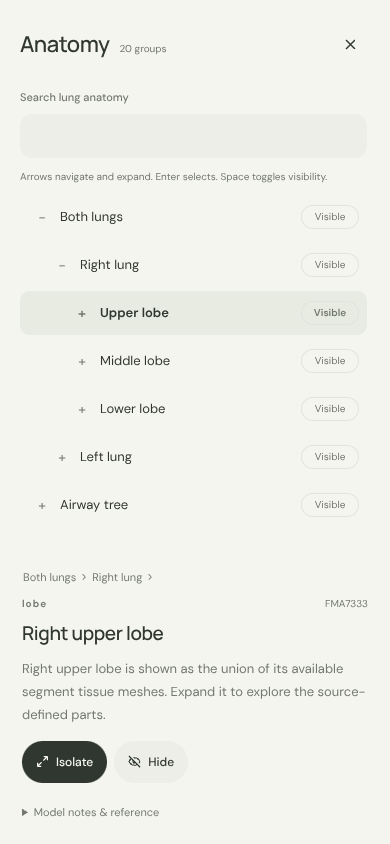
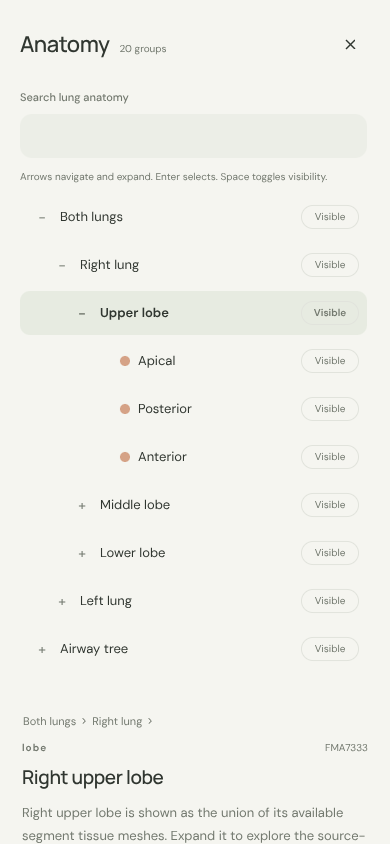
Adopt anatomy-tree colors and built-in reveal from OrganUI #12
Reinstall the registry anatomy-tree with shadcn@4.21.0 from OrganUI
PR #12 (d6b36d0, served locally because organui.com is blocked in the
sandbox) and use its new node options. The installed file is unmodified;
@base-ui/react stays pinned at exactly 1.8.0 and bun.lock is unchanged.

- Leaf rows carry the color their scene mesh uses, so the list shows
  swatches again. All parent rows are real structures and stay
  selectable; lungs has no group-* rows.
- Remove the remount-to-reveal workaround and expansionFor: the
  component now opens a 3D pick's or tour stop's branch and scrolls the
  row into view. The reset key remount stays to clear search.
- Update adapter tests, integration notes (new checksums, options used,
  resolved friction), verification log and panel screenshots.

Claude-Session: https://claude.ai/code/session_01WZXw8BNji5gYqeZAzSuRCJ

diff --git a/src/components/ui/anatomy-tree.tsx b/src/components/ui/anatomy-tree.tsx
@@ -5,6 +5,13 @@ export type AnatomyNode = {
   id: string
   label: string
   children?: readonly AnatomyNode[]
+  /** A CSS color shown as a decorative swatch before the label. */
+  color?: string
+  /**
+   * Defaults to true. A row that is not selectable expands or collapses
+   * instead, for groupings that have no single structure to select.
+   */
+  selectable?: boolean
 }
 export type AnatomyTreeProps = {
   data: readonly AnatomyNode[]
@@ -158,11 +165,35 @@ export function AnatomyTree({
   const helpId = React.useId()
   const searchId = React.useId()
   const searching = deferredQuery.trim() !== ""
+  const groupsExpand = React.useMemo(
+    () => [...index.nodes.values()].some((node) => node.selectable === false),
+    [index]
+  )
   const rows = React.useMemo(
     () => anatomyRows(data, index, expanded, deferredQuery),
     [data, index, expanded, deferredQuery]
   )
   const focusId = focusTarget(rows, activePath, index.parents)
+  // Reveal a selection made outside the tree, such as in a 3D view: when its
+  // row is not shown, expand its ancestors, then scroll the row into view.
+  const [reveal, setReveal] = React.useState({ id: selectedId, scroll: false })
+  if (reveal.id !== selectedId) {
+    const known = !!selectedId && index.nodes.has(selectedId)
+    const shown = rows.some(({ node }) => node.id === selectedId)
+    setReveal({ id: selectedId, scroll: known })
+    const ancestors: string[] = []
+    let parent = known && !shown ? index.parents.get(selectedId!) : undefined
+    while (parent) {
+      ancestors.push(parent)
+      parent = index.parents.get(parent)
+    }
+    if (ancestors.some((id) => !expanded.has(id)))
+      setExpanded(new Set([...expanded, ...ancestors]))
+  }
+  React.useEffect(() => {
+    if (reveal.scroll && reveal.id)
+      refs.current.get(reveal.id)?.scrollIntoView?.({ block: "nearest" })
+  }, [reveal])
   React.useLayoutEffect(() => {
     // Recover only when an update removed the focused element. Focus that
     // left the tree on purpose, even to the body, is never taken back.
@@ -187,6 +218,10 @@ export function AnatomyTree({
       return next
     })
   }
+  function activate(node: AnatomyNode) {
+    if (node.selectable !== false) onSelectionChange(node.id)
+    else if (node.children?.length && !searching) toggleExpanded(node.id)
+  }
   function toggleVisibility(node: AnatomyNode) {
     onVisibilityChange(nextVisibility(node, index, visibility))
   }
@@ -206,7 +241,9 @@ export function AnatomyTree({
         className="mb-3 w-full rounded-md border bg-background px-3 py-2 text-sm focus-visible:outline-2 focus-visible:outline-ring"
       />
       <p id={helpId} className="mb-3 text-xs text-muted-foreground">
-        Arrows navigate and expand. Enter selects. Space toggles visibility.
+        {groupsExpand
+          ? "Arrows navigate and expand. Enter selects, or expands a group. Space toggles visibility."
+          : "Arrows navigate and expand. Enter selects. Space toggles visibility."}
       </p>
       <div
         role="tree"
@@ -249,7 +286,9 @@ export function AnatomyTree({
               aria-setsize={size}
               aria-posinset={position}
               aria-expanded={branch ? open : undefined}
-              aria-selected={selectedId === node.id}
+              aria-selected={
+                node.selectable === false ? undefined : selectedId === node.id
+              }
               aria-checked={checked}
               tabIndex={focusId === node.id ? 0 : -1}
               onFocus={() => {
@@ -290,7 +329,7 @@ export function AnatomyTree({
                   if (branch && open && !searching) toggleExpanded(node.id)
                   else focus(index.parents.get(node.id))
                 }
-                if (event.key === "Enter") onSelectionChange(node.id)
+                if (event.key === "Enter") activate(node)
                 if (event.key === " ") toggleVisibility(node)
               }}
               className="my-1 flex min-h-10 items-center gap-1 rounded-md px-2 text-sm outline-offset-2 hover:bg-muted focus-visible:outline-2 focus-visible:outline-ring aria-selected:bg-accent aria-selected:font-semibold"
@@ -316,11 +355,18 @@ export function AnatomyTree({
                 tabIndex={-1}
                 onClick={() => {
                   focus(node.id)
-                  onSelectionChange(node.id)
+                  activate(node)
                 }}
-                className="min-w-0 flex-1 py-2 text-start break-words"
+                className="flex min-w-0 flex-1 items-center gap-2 py-2 text-start break-words"
               >
-                {node.label}
+                {node.color && (
+                  <span
+                    aria-hidden="true"
+                    className="size-2.5 shrink-0 rounded-full"
+                    style={{ backgroundColor: node.color }}
+                  />
+                )}
+                <span className="min-w-0">{node.label}</span>
               </Button>
               <Button
                 tabIndex={-1}

diff --git a/src/App.tsx b/src/App.tsx
@@ -31,7 +31,6 @@ import { ancestors, byId, leafIds, leaves } from "./anatomy";
 import {
   anatomyTree,
   defaultExpandedIds,
-  expansionFor,
   hiddenFromVisibility,
   visibilityFromHidden,
 } from "./anatomy-adapter";
@@ -68,10 +67,10 @@ const tour = [
 ];
 export default function App() {
   const [state, dispatch] = useReducer(reducer, initialState);
-  // The registry tree owns search and disclosure. A new key remounts it:
-  // reset clears both, and a selection without a visible row reopens its
-  // ancestors so list and scene stay synchronized.
-  const [tree, setTree] = useState({ key: 0, expanded: defaultExpandedIds });
+  // The registry tree owns search and disclosure, and reveals a selection
+  // made elsewhere (3D pick, tour) by itself. Reset bumps its key to clear
+  // both back to the default disclosure.
+  const [treeKey, setTreeKey] = useState(0);
   const [sidebarOpen, setSidebarOpen] = useState(false);
   const [tourStep, setTourStep] = useState<number | null>(null);
   const [about, setAbout] = useState(false);
@@ -85,22 +84,12 @@ export default function App() {
   const stage = useRef<HTMLDivElement>(null);
   const panelToggle = useRef<HTMLButtonElement>(null);
   const aboutTrigger = useRef<HTMLElement | null>(null);
-  const treeWrap = useRef<HTMLDivElement>(null);
   useLayoutEffect(() => {
     if (!sidebarOpen) return;
     panel.current?.focus({ preventScroll: true });
     if (window.matchMedia("(max-width: 760px)").matches)
       panel.current?.scrollIntoView({ block: "start" });
   }, [sidebarOpen]);
-  useLayoutEffect(() => {
-    const rows = treeWrap.current;
-    if (!rows || rows.querySelector('[role="treeitem"][aria-selected="true"]'))
-      return;
-    setTree((t) => ({
-      key: t.key + 1,
-      expanded: [...new Set([...t.expanded, ...expansionFor(state.selected)])],
-    }));
-  }, [state.selected, tree.key]);
   const selected = byId[state.selected];
   const visibleCount = leaves.filter(
     (n) => !state.hidden.includes(n.id),
@@ -138,7 +127,7 @@ export default function App() {
     dispatch({ type: "reset" });
     setTourStep(null);
     setFreeOrbit(false);
-    setTree((t) => ({ key: t.key + 1, expanded: defaultExpandedIds }));
+    setTreeKey((key) => key + 1);
   }
   function step(index: number) {
     setTourStep(index);
@@ -402,9 +391,9 @@ export default function App() {
                 <X size={17} />
               </button>
             </div>
-            <div className="tree-scroll" ref={treeWrap}>
+            <div className="tree-scroll">
               <AnatomyTree
-                key={tree.key}
+                key={treeKey}
                 data={anatomyTree}
                 selectedId={state.selected}
                 onSelectionChange={select}
@@ -415,7 +404,7 @@ export default function App() {
                     hidden: hiddenFromVisibility(next),
                   })
                 }
-                defaultExpandedIds={tree.expanded}
+                defaultExpandedIds={defaultExpandedIds}
                 label="Lung anatomy"
                 className="registry-tree"
               />

diff --git a/src/anatomy-adapter.ts b/src/anatomy-adapter.ts
@@ -3,21 +3,23 @@ import {
   leafIds as treeLeafIds,
   type AnatomyNode as TreeNode,
 } from "@/components/ui/anatomy-tree";
-import { ancestors, byId, children, leaves, type AnatomyNode } from "./anatomy";
+import { byId, children, leaves, type AnatomyNode } from "./anatomy";
 
 // The explorer's panel shows two parts: the lung anatomy (both lungs → lung →
 // lobe → source-defined segment tissue) and the airway tree (trachea and the
 // two bronchial trees). Both map onto the registry tree as two roots that
 // reuse the application's own structure IDs, so the tree's controlled
 // selection is the app's selected ID with no translation. Every parent row is
-// an existing, selectable app structure; no extra `group-*` rows are needed.
+// an existing, selectable app structure; no extra `group-*` rows are needed,
+// so no row sets `selectable: false`. Each leaf row carries the colour its
+// scene mesh is drawn in as the tree's decorative swatch.
 export const treeRoots = ["lungs", "airways"] as const;
 
 function toTreeNode(node: AnatomyNode): TreeNode {
   const kids = children(node.id);
   return kids.length
     ? { id: node.id, label: node.short, children: kids.map(toTreeNode) }
-    : { id: node.id, label: node.short };
+    : { id: node.id, label: node.short, color: node.color };
 }
 
 export const anatomyTree: TreeNode[] = treeRoots.map((id) =>
@@ -38,11 +40,6 @@ export function sceneIdsForNode(id: string | null): string[] {
   const node = treeNodes.get(id);
   if (!node) return [];
   return treeLeafIds(node).filter((leaf) => sceneLeafSet.has(leaf));
-}
-
-/** Branch rows that must be open for `id` to have a visible tree row. */
-export function expansionFor(id: string): string[] {
-  return treeNodes.has(id) ? ancestors(id).map(({ id }) => id) : [];
 }
 
 /** The tree's contract: a leaf-ID map in which a missing entry is visible. */

diff --git a/tests/anatomy-adapter.test.ts b/tests/anatomy-adapter.test.ts
@@ -2,13 +2,16 @@ import { describe, expect, test } from "bun:test";
 import {
   anatomyTree,
   assertAnatomyMapping,
-  expansionFor,
   hiddenFromVisibility,
   normalizeVisibility,
   sceneIdsForNode,
   visibilityFromHidden,
 } from "../src/anatomy-adapter";
-import { leafIds, leaves } from "../src/anatomy";
+import { byId, leafIds, leaves } from "../src/anatomy";
+import {
+  anatomyIndex,
+  type AnatomyNode as TreeNode,
+} from "../src/components/ui/anatomy-tree";
 import { initialState, reducer } from "../src/state";
 
 describe("anatomy-to-scene adapter", () => {
@@ -67,9 +70,18 @@ describe("anatomy-to-scene adapter", () => {
     expect(reducer(s, { type: "restore" }).hidden).toEqual([]);
   });
 
-  test("discloses the ancestors of a selection", () => {
-    expect(expansionFor("FMA7338")).toEqual(["lungs", "FMA7309", "FMA7333"]);
-    expect(expansionFor("FMA26661")).toEqual(["airways"]);
-    expect(expansionFor("lungs")).toEqual([]);
+  test("leaf rows carry their scene mesh colour; parents stay selectable", () => {
+    const { nodes } = anatomyIndex(anatomyTree);
+    const rows: TreeNode[] = [...nodes.values()];
+    const leafRows = rows.filter((n) => !n.children?.length);
+    expect(leafRows).toHaveLength(leaves.length);
+    for (const row of leafRows) {
+      expect(row.color).toMatch(/^#[0-9a-f]{6}$/i);
+      expect(row.color).toBe(byId[row.id].color);
+    }
+    for (const row of rows) {
+      expect(row.selectable).toBeUndefined();
+      if (row.children?.length) expect(row.color).toBeUndefined();
+    }
   });
 });

diff --git a/docs/REGISTRY_INTEGRATION.md b/docs/REGISTRY_INTEGRATION.md
@@ -4,23 +4,25 @@ The Anatomy panel uses the OrganUI registry item `anatomy-tree`. The installed s
 
 ## Exact installation
 
-Installed on 2026-10-16 with the shadcn CLI:
+Reinstalled on 16 October 2026 with the shadcn CLI:
 
 ```sh
-REGISTRY_URL=http://127.0.0.1:4410 bunx shadcn@4.21.0 add http://127.0.0.1:4410/anatomy-tree.json -y
+REGISTRY_URL=http://127.0.0.1:4411 bunx shadcn@4.21.0 add http://127.0.0.1:4411/anatomy-tree.json -y -o
 ```
 
-The build sandbox's network policy blocks `organui.com` and `ui.shadcn.com`, so the public URL (`https://organui.com/r/anatomy-tree.json`) could not be used. Instead, a local static server on `127.0.0.1:4410` served the registry artifact built from the OrganUI repository at `master` commit `5e20c41`, plus shadcn's `colors/neutral.json` fetched from the shadcn GitHub repository. `REGISTRY_URL` points the CLI's own registry lookups at that server. The item content is what the public registry would serve for that commit; reinstalling from `https://organui.com/r/anatomy-tree.json` should produce the same file if the published item has not changed.
+This install is the item from OrganUI pull request #12 (branch commit `d6b36d0`), which adds the optional `color` and `selectable` node fields and built-in reveal of the selected row. #12 was not merged at install time. The build sandbox's network policy blocks `organui.com` and `ui.shadcn.com`, so the public URL (`https://organui.com/r/anatomy-tree.json`) could not be used: a local static server on `127.0.0.1:4411` served the registry artifact built from that commit, plus shadcn's `colors/neutral.json` fetched from the shadcn GitHub repository, and `REGISTRY_URL` pointed the CLI's own registry lookups at it. **After #12 merges, re-verify against `https://organui.com/r/anatomy-tree.json`**: reinstalling from it should produce the same file (same checksum below) if the published item matches `d6b36d0`.
+
+The first install (same day, OrganUI `master` commit `5e20c41`, served JSON `f519cf85…`, installed file `39b29446…`) predated these options.
 
 Provenance at install time:
 
 | Artifact                                     | SHA-256                                                            |
 | -------------------------------------------- | ------------------------------------------------------------------ |
[6 lines of base64/hex data omitted]
 
-The item declares `@base-ui/react@^1.8.0`. The CLI wrote that range into `package.json`; it was then pinned to exactly `1.8.0` like the other dependencies and `bun install` refreshed the text `bun.lock`. The project uses React 19.2.8, TypeScript 7.0.2, Vite 8.3.0, Tailwind CSS 4.1.18 (`tailwindcss` + `@tailwindcss/vite`) and shadcn's Base UI consumer shape (`components.json`).
+The item declares `@base-ui/react@^1.8.0`. The CLI rewrote the existing exact pin to that range in `package.json`; it was set back to exactly `1.8.0` like the other dependencies, and `bun install` left the text `bun.lock` unchanged. The project uses React 19.2.8, TypeScript 7.0.2, Vite 8.3.0, Tailwind CSS 4.1.18 (`tailwindcss` + `@tailwindcss/vite`) and shadcn's Base UI consumer shape (`components.json`).
 
 ## Installed-source differences
 
@@ -34,7 +36,10 @@ The `@/* -> src/*` alias was added to `tsconfig.json` and `vite.config.ts` befor
 - `selectedId` / `onSelectionChange`: the app's single controlled `state.selected`;
 - `visibility` / `onVisibilityChange`: a controlled map keyed by **leaf** IDs; missing means visible;
 - `defaultExpandedIds`: initial disclosure (Both lungs open);
-- `label` (`"Lung anatomy"`) and `className`.
+- `label` (`"Lung anatomy"`) and `className`;
+- node `color`: every leaf row (the 17 segment groups and 3 airways) carries the same color its scene mesh is drawn in (`AnatomyNode.color` in `src/anatomy.ts`), shown by the component as a decorative swatch. Parent rows have none;
+- node `selectable`: not set. Every parent row is a real, selectable structure (see Decisions), so all rows keep the default `true`;
+- built-in reveal: when `selectedId` changes to a row that is not shown, the component expands its ancestors and scrolls the row into view once.
 
 Search and expansion stay internal to the component.
 
@@ -53,10 +58,9 @@ Tree IDs are the application's own structure IDs, so selection needs no translat
 
 The adapter provides:
 
-- `anatomyTree`, built from the existing `nodes`/`children` data;
+- `anatomyTree`, built from the existing `nodes`/`children` data, with each leaf's mesh color;
 - `sceneIdsForNode`, mapping any row to its descendant scene leaves (tested equal to the app's `leafIds`);
 - `normalizeVisibility`, `visibilityFromHidden` and `hiddenFromVisibility`, converting between the tree's leaf map and the app's `hidden` list;
-- `expansionFor`, the ancestors to disclose for a selection;
 - `assertAnatomyMapping`, which runs at import and throws on missing, unknown or duplicate leaves.
 
 `tests/anatomy-adapter.test.ts` covers these with the repository's `bun test` runner.
@@ -67,11 +71,13 @@ The adapter provides:
 
 **Visibility.** Tree toggles write the reducer's `hidden` list through a `setHidden` action; Isolate, Hide, Restore all, the tour and reset keep writing the same list, and the tree reads it back on every render. Parent rows show the component's derived Visible / Hidden / Mixed state. As before, selecting a structure (from tree, scene or breadcrumbs) makes its hidden parts visible again.
 
-**Keeping list and scene in sync.** After each selection change, if the selected row is not rendered (its branch collapsed, or a search excludes it), the tree is remounted with that row's ancestors added to `defaultExpandedIds`. This discloses 3D picks and tour stops. It clears a search in progress only in that case, and it keeps branches the app has disclosed before, but not ones the user opened manually.
+**Keeping list and scene in sync.** The component's built-in reveal discloses 3D picks and tour stops: a selection whose branch is collapsed opens its ancestors, keeps every branch the user opened, and scrolls the row into view in the panel's scroll area. The app's earlier workaround (remounting the tree with the selection's ancestors added to `defaultExpandedIds`, and the adapter's `expansionFor`) was removed. One difference: the old remount also cleared a search that excluded the selection; the component keeps the search, and the row appears, already disclosed, once the search is cleared.
 
 **Reset.** Reset bumps the tree's `key` and restores the default disclosure, which clears the component's internal search and expansion together with the app's selection, visibility, tour and camera.
 
 **Picking.** Hidden structures are not rendered, so they cannot be picked or block surfaces behind them; this was already true and was rechecked in the browser.
+
+**Colors.** The old list's colour dots return as the component's swatches, from the same per-structure colours the scene uses. No app CSS draws them.
 
 **Removed.** The hand-built rows, the separate search box with its query state and result list, the Both lungs shortcut button, and their CSS. The old search also matched FMA IDs and source tissue IDs; the registry search matches labels only.
 
@@ -86,8 +92,9 @@ As in the kidneys explorer, the app's base resets moved into `@layer base`, afte
 No registry defect blocked the integration and the component was not forked. Observations for other consumers:
 
 1. The public registry hosts were unreachable from the build sandbox; a local server for the built registry plus `REGISTRY_URL` worked with the unmodified CLI.
-2. The CLI writes the item's dependency range (`^1.8.0`) over an existing exact pin; re-pin afterwards if the project pins exactly.
+2. The CLI writes the item's dependency range (`^1.8.0`) over an existing exact pin, also with `-o`; re-pin afterwards if the project pins exactly.
 3. Tailwind's preflight changes line height, headings, SVG display and legend padding for an app not written against it; compare before/after screenshots.
-4. Expansion is internal, so a consumer whose selection can come from elsewhere (3D picks, a tour) must remount to reveal a collapsed row. An optional controlled `expandedIds` prop, or revealing the selected row automatically, would avoid losing the user's disclosure and search.
-5. The component has no slot for per-row decoration, so the old colour dots were dropped from the list; colours remain in the scene and selection chip.
-6. Search matches labels only; there is no hook for aliases such as source IDs.
+4. Search matches labels only; there is no hook for aliases such as source IDs.
+5. Built-in reveal does not clear a search that excludes the newly selected row, so the row stays filtered out until the search is cleared.
+
+Resolved by OrganUI #12 (`d6b36d0`): revealing a selection made outside the tree (formerly a remount workaround) and per-row decoration (formerly no colour dots in the list).

diff --git a/docs/VERIFICATION.md b/docs/VERIFICATION.md
@@ -74,4 +74,26 @@ Browser checks used Playwright with headless Chromium (SwiftShader WebGL) at 144
 | Tour            | All four stops kept the tree selection in step (Both lungs, Upper lobe, Apical, Airway tree); Finish restored the initial state.                                                                   |
 | Mobile          | 390-pixel document width with no horizontal overflow; the tree stacks in the panel below the scene.                                                                                                |
 
-Before installing the component, the existing interface was screenshotted with and without the Tailwind import; header, toolbar, chip, detail card, display controls, tour and dialog matched (no pixel differed by more than 16 of 255 per channel) after the preflight adjustments described in the integration notes. Screenshots: [anatomy.png](screenshots/anatomy.png) (desktop) and [mobile-anatomy.png](screenshots/mobile-anatomy.png). Screen-reader output was not tested; the tree's roles and keyboard behavior come from the registry component and were only exercised through Playwright.
+Before installing the component, the existing interface was screenshotted with and without the Tailwind import; header, toolbar, chip, detail card, display controls, tour and dialog matched (no pixel differed by more than 16 of 255 per channel) after the preflight adjustments described in the integration notes. Screen-reader output was not tested; the tree's roles and keyboard behavior come from the registry component and were only exercised through Playwright.
+
+## Registry tree update: colors and built-in reveal (16 October 2026)
+
+The tree was reinstalled from OrganUI #12 (`d6b36d0`, served locally) and the panel adopted its new node options; see [REGISTRY_INTEGRATION.md](REGISTRY_INTEGRATION.md). Leaf rows carry their mesh color; all rows stay selectable (no `group-*` rows); the app's remount-to-reveal workaround was removed in favor of the component's built-in reveal.
+
+Automated: `bun install --frozen-lockfile` from a removed `node_modules`, `bun run typecheck`, `bun test` (12 tests; the ancestor-disclosure test was replaced by one asserting each leaf row's color equals its scene color and no row is made unselectable), `bun run build`, and `bun run format:check` passed.
+
+Browser checks used Playwright with headless Chromium (SwiftShader WebGL) at 1440×900 and 390×844 against the production build (`vite preview`), with no console errors in either run:
+
+| Area            | Observed result                                                                                                                                                                                                                                                                                                                                       |
+| --------------- | ----------------------------------------------------------------------------------------------------------------------------------------------------------------------------------------------------------------------------------------------------------------------------------------------------------------------------------------------------- |
+| Colors          | With every branch open, all 20 leaf rows showed a 10-pixel swatch whose computed color equaled the mesh color of that structure, in tree order; parent rows had none.                                                                                                                                                                                 |
+| Parent rows     | Clicking the Right lung label, or Enter on Left lung, selected it (chip and `aria-selected`); ArrowRight expanded it. The view label stayed "Anterior".                                                                                                                                                                                               |
+| 3D → tree       | With Both lungs collapsed, a scene click selected Right middle lobe; the tree opened Both lungs › Right lung and showed Middle lobe selected and in view. On desktop, with the tree scrolled to the bottom and Right lung collapsed, a segment-mode click selected Right anterior segment; the tree opened its branch and scrolled the row into view. |
+| Tour            | Starting with Both lungs collapsed, the four stops selected Both lungs, Upper lobe, Apical and Airway tree in the tree.                                                                                                                                                                                                                               |
+| Search          | "lingular" showed both lingular groups with their ancestors; selecting Inferior lingular updated chip and row. A scene pick during a search keeps the search; clearing it showed the picked row selected and disclosed.                                                                                                                               |
+| Visibility      | Hiding Apical gave "Mixed" on Upper lobe, Right lung and Both lungs and 19 of 20 groups; hiding Left lung gave 11 of 20; "Mixed: show Both lungs" made every row Visible again.                                                                                                                                                                       |
+| Reset           | Cleared a typed search and returned to the default disclosure with Both lungs selected.                                                                                                                                                                                                                                                               |
+| Panel and focus | Closed by default; opening moved focus into it; Escape from a tree row closed it and returned focus to the Anatomy button; the chip name reopened it with the picked row selected.                                                                                                                                                                    |
+| Mobile          | Document width 390 pixels with no horizontal overflow.                                                                                                                                                                                                                                                                                                |
+
+Screenshots: [anatomy.png](screenshots/anatomy.png) (desktop) and [mobile-anatomy.png](screenshots/mobile-anatomy.png), both with Right upper lobe selected and its segment rows showing their swatches.

diff --git a/README.md b/README.md
@@ -41,7 +41,7 @@ Keyboard: focus the model and use arrow keys to rotate, `+`/`−` to zoom, and `
 
 ### Anatomy tree
 
-The panel's tree is the OrganUI registry component `anatomy-tree`, installed with the shadcn CLI into `src/components/ui/anatomy-tree.tsx` and kept unmodified. Lung-specific mapping lives in `src/anatomy-adapter.ts`. See [registry integration](docs/REGISTRY_INTEGRATION.md) for the install command, checksums, and decisions.
+The panel's tree is the OrganUI registry component `anatomy-tree`, installed with the shadcn CLI into `src/components/ui/anatomy-tree.tsx` and kept unmodified. Each leaf row shows a swatch in its 3D color, and a selection made in the scene or the tour opens its branch and scrolls its row into view. Lung-specific mapping lives in `src/anatomy-adapter.ts`. See [registry integration](docs/REGISTRY_INTEGRATION.md) for the install command, checksums, and decisions.
 
 ## Model scope
 
